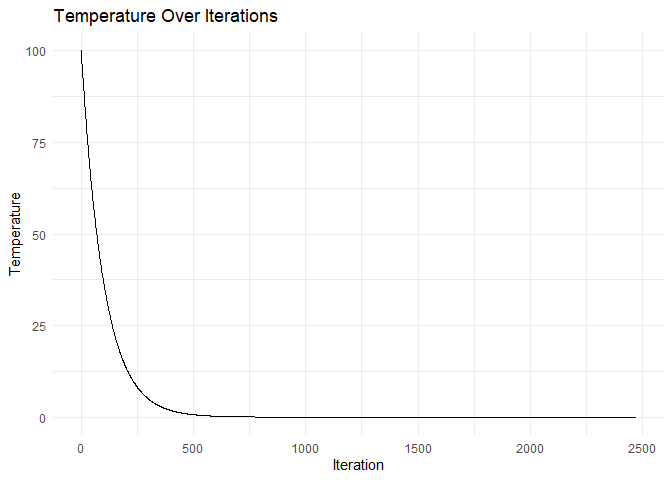
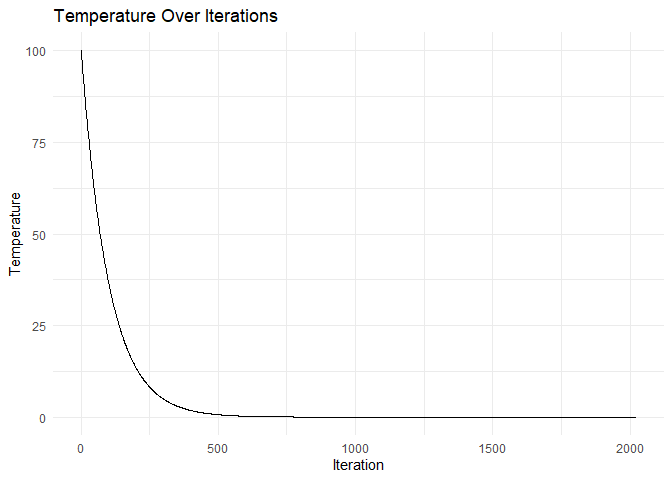
Minor updates to Readme badges etc

diff --git a/README.md b/README.md
@@ -5,7 +5,14 @@
 
 <!-- badges: start -->
 
-[![R-CMD-check](https://github.com/biometryhub/speed-sam/actions/workflows/R-CMD-check.yaml/badge.svg)](https://github.com/biometryhub/speed-sam/actions/workflows/R-CMD-check.yaml)
+[![Project Status: Active: The project has reached a stable, usable
+state and is being actively
+developed.](https://www.repostatus.org/badges/latest/active.svg)](https://www.repostatus.org/#active)
+[![R-CMD-check](https://github.com/biometryhub/speed/actions/workflows/R-CMD-check.yaml/badge.svg)](https://github.com/biometryhub/speed/actions/workflows/R-CMD-check.yaml)
+[![Codecov test
+coverage](https://codecov.io/gh/biometryhub/speed/graph/badge.svg)](https://app.codecov.io/gh/biometryhub/speed)
+[![Licence](https://img.shields.io/github/license/mashape/apistatus.svg)](https://choosealicense.com/licenses/mit/)
+![Badge](https://hitscounter.dev/api/hit?url=https%3A%2F%2Fbiometryhub.github.io%2Fspeed&label=Hits&icon=arrow-down-circle&color=%23198754)
 <!-- badges: end -->
 
 ## Overview
@@ -57,9 +64,9 @@ df <- data.frame(
 
 # Optimize the design with seed for reproducibility
 result <- speed(df, "treatment", seed = 42)
-#> Iteration: 1000 Score: 1 Best: 1 Since Improvement: 526 
-#> Iteration: 2000 Score: 1 Best: 1 Since Improvement: 1526 
-#> Early stopping at iteration 2474
+#> Iteration: 1000 Score: 1 Best: 1 Since Improvement: 975 
+#> Iteration: 2000 Score: 1 Best: 1 Since Improvement: 1975 
+#> Early stopping at iteration 2025
 
 # Plot the optimized design
 autoplot(result)
